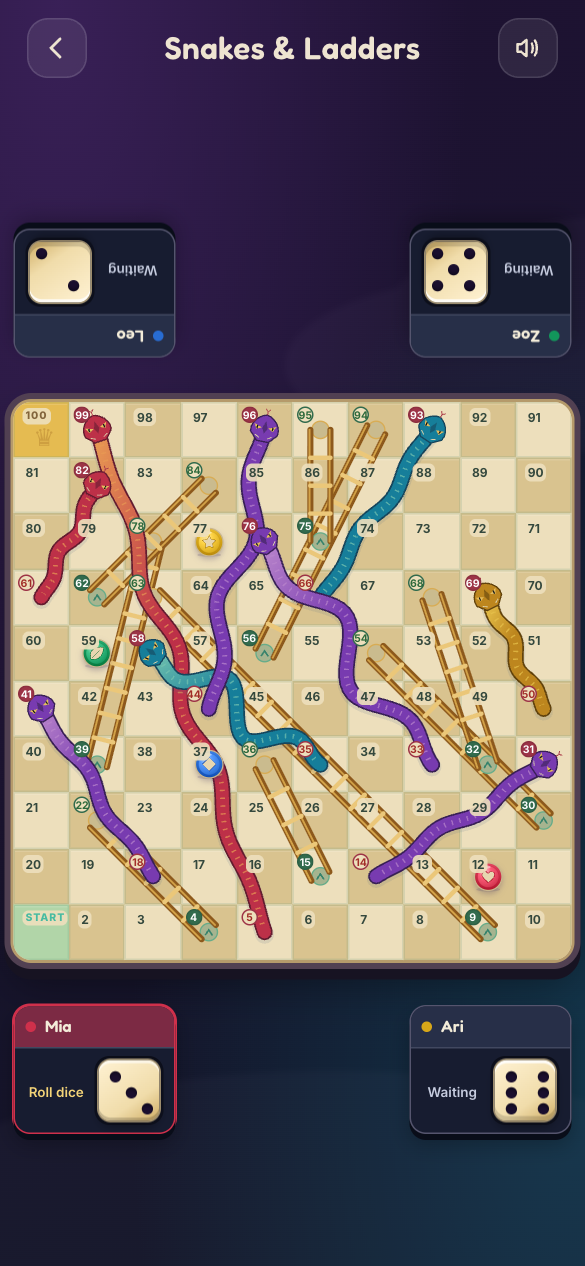
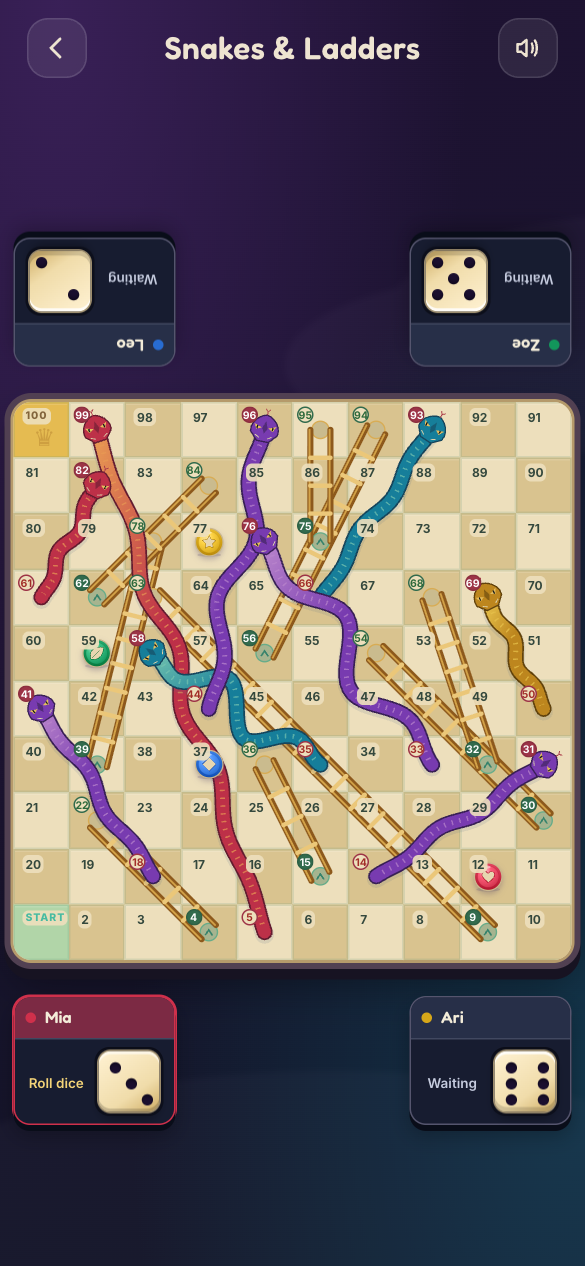
Tighten matching SNL phone card gaps to 24px

diff --git a/index.html b/index.html
@@ -17,12 +17,12 @@
     <meta property="og:title" content="Ludo Pitara — free Ludo & Snakes and Ladders, no ads" />
     <meta property="og:description" content="Play with friends on one phone or against bots. No ads, no sign-up, works offline." />
     <meta property="og:url" content="https://udeshvirk.github.io/ludo-pitara/" />
-    <meta property="og:image" content="https://udeshvirk.github.io/ludo-pitara/og-image-ccd4289658.png" />
+    <meta property="og:image" content="https://udeshvirk.github.io/ludo-pitara/og-image-a97d1a5468.png" />
     <meta property="og:image:width" content="1200" />
     <meta property="og:image:height" content="630" />
     <meta property="og:image:alt" content="Ludo and Snakes & Ladders boards on a phone" />
     <meta name="twitter:card" content="summary_large_image" />
-    <meta name="twitter:image" content="https://udeshvirk.github.io/ludo-pitara/og-image-ccd4289658.png" />
+    <meta name="twitter:image" content="https://udeshvirk.github.io/ludo-pitara/og-image-a97d1a5468.png" />
     <meta name="theme-color" content="#190a2e" />
     <meta name="apple-mobile-web-app-capable" content="yes" />
     <meta name="apple-mobile-web-app-status-bar-style" content="black-translucent" />

diff --git a/vite.config.ts b/vite.config.ts
@@ -26,8 +26,8 @@ export default defineConfig({
         // Phone screenshots give Android Chrome its richer install sheet.
         screenshots: [
           { src: 'screenshots/ludo.png?v=d46b925b0a', sizes: '585x1266', type: 'image/png', form_factor: 'narrow', label: 'Ludo' },
-          { src: 'screenshots/snakes-and-ladders.png?v=dc83d0b5ce', sizes: '585x1266', type: 'image/png', form_factor: 'narrow', label: 'Snakes & Ladders' },
-          { src: 'screenshots/game-select.png?v=8d7da01609', sizes: '585x1266', type: 'image/png', form_factor: 'narrow', label: 'Choose a game' },
+          { src: 'screenshots/snakes-and-ladders.png?v=a055968d6c', sizes: '585x1266', type: 'image/png', form_factor: 'narrow', label: 'Snakes & Ladders' },
+          { src: 'screenshots/game-select.png?v=6445e6c566', sizes: '585x1266', type: 'image/png', form_factor: 'narrow', label: 'Choose a game' },
         ],
         icons: [
           {

diff --git a/src/pages/SnakesAndLaddersGame.tsx b/src/pages/SnakesAndLaddersGame.tsx
@@ -161,7 +161,7 @@ const SnakesAndLaddersGame: React.FC = () => {
           </div>
         </div>
       ) : (
-        <div className={isPhone ? 'snl-phone-layout' : undefined} style={{ flex: 1, minHeight: 0, display: 'flex', flexDirection: 'column', alignItems: 'stretch', justifyContent: 'center', padding: isPhone ? '10px 9px 12px' : '14px 13px 13px', overflow: 'hidden', gap: isPhone ? 30 : 18 }}>
+        <div className={isPhone ? 'snl-phone-layout' : undefined} style={{ flex: 1, minHeight: 0, display: 'flex', flexDirection: 'column', alignItems: 'stretch', justifyContent: 'center', padding: isPhone ? '10px 9px 12px' : '14px 13px 13px', overflow: 'hidden', gap: isPhone ? 24 : 18 }}>
           <SNLPlayerHalfRow slots={topSlotsForCount(playerCount)} top />
           <div style={boardStyle}>
             <SNLBoard />

diff --git a/src/index.css b/src/index.css
@@ -373,5 +373,5 @@ button:focus-visible, a:focus-visible { outline: 3px solid #ffe18c; outline-offs
    above it so that shadow cannot paint over the next card's top border. */
 .snl-phone-layout > .snl-player-row { position: relative; z-index: 1; }
 
-/* Phone board-to-card gaps are symmetric (30px in the game layout),
+/* Phone board-to-card gaps are symmetric (24px in the game layout),
    clearing the board's raised base and deep shadow on both sides. */

diff --git a/MEMORY.md b/MEMORY.md
@@ -81,7 +81,8 @@ placement logic with the new looks**. That is the current implementation in
   and its deep shadow. S25 Ultra/Chrome still showed the lower card rim
   obscured after stacking changes. User confirmed 30px physical clearance
   fixes the border on S25 Ultra/Chrome, then requested consistent spacing.
-  Use equal 30px gaps above and below the board on portrait phones.
+  User then requested tighter spacing: use equal 24px gaps above and below
+  the board on portrait phones. Device confirmation of 24px remains pending.
   Explicit name line height/wrapping remains in place.
 - Checked 320×568, 390×844, 430×932, 768×1024 and 844×390 with four players.
   Publishing includes refreshed screenshots and social preview assets.
